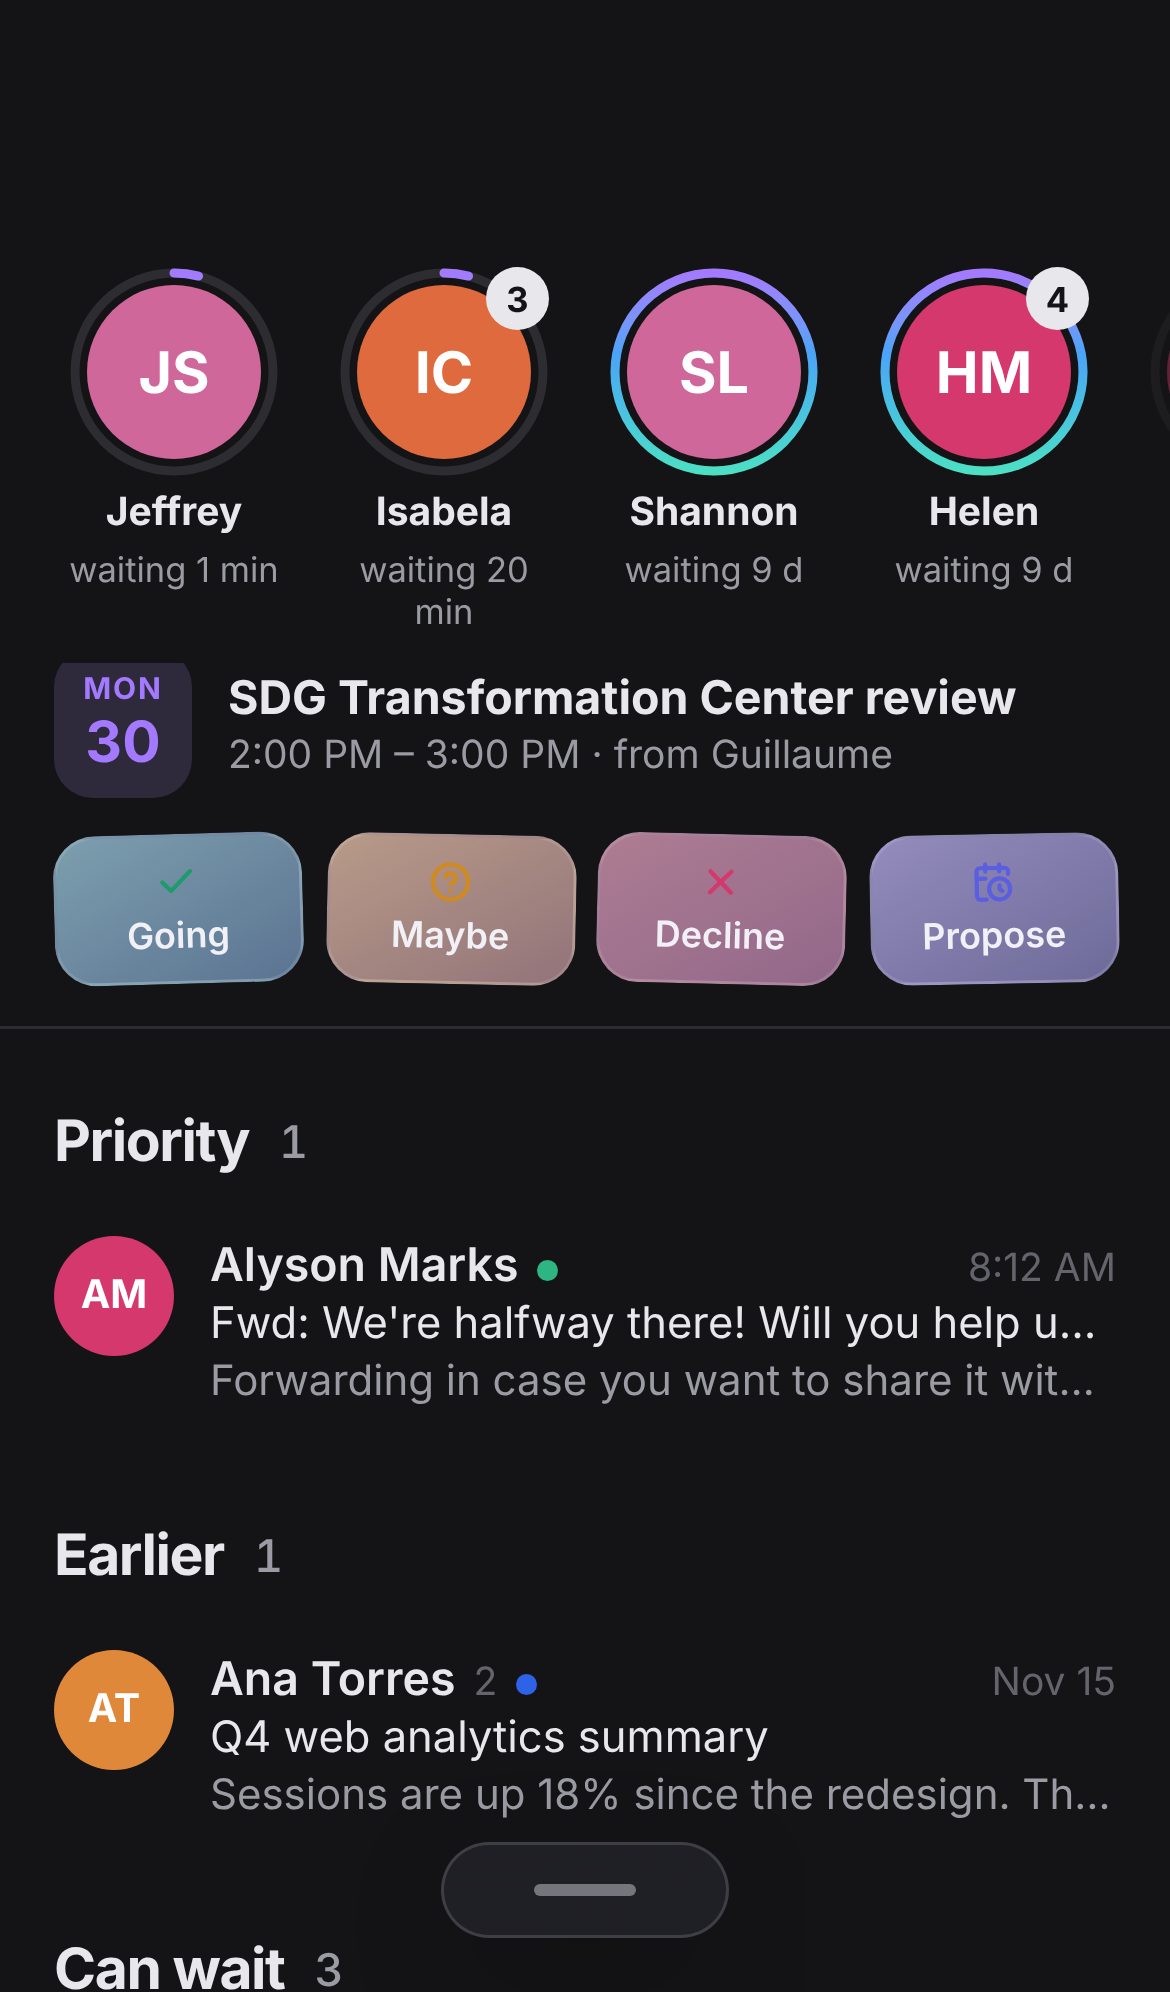
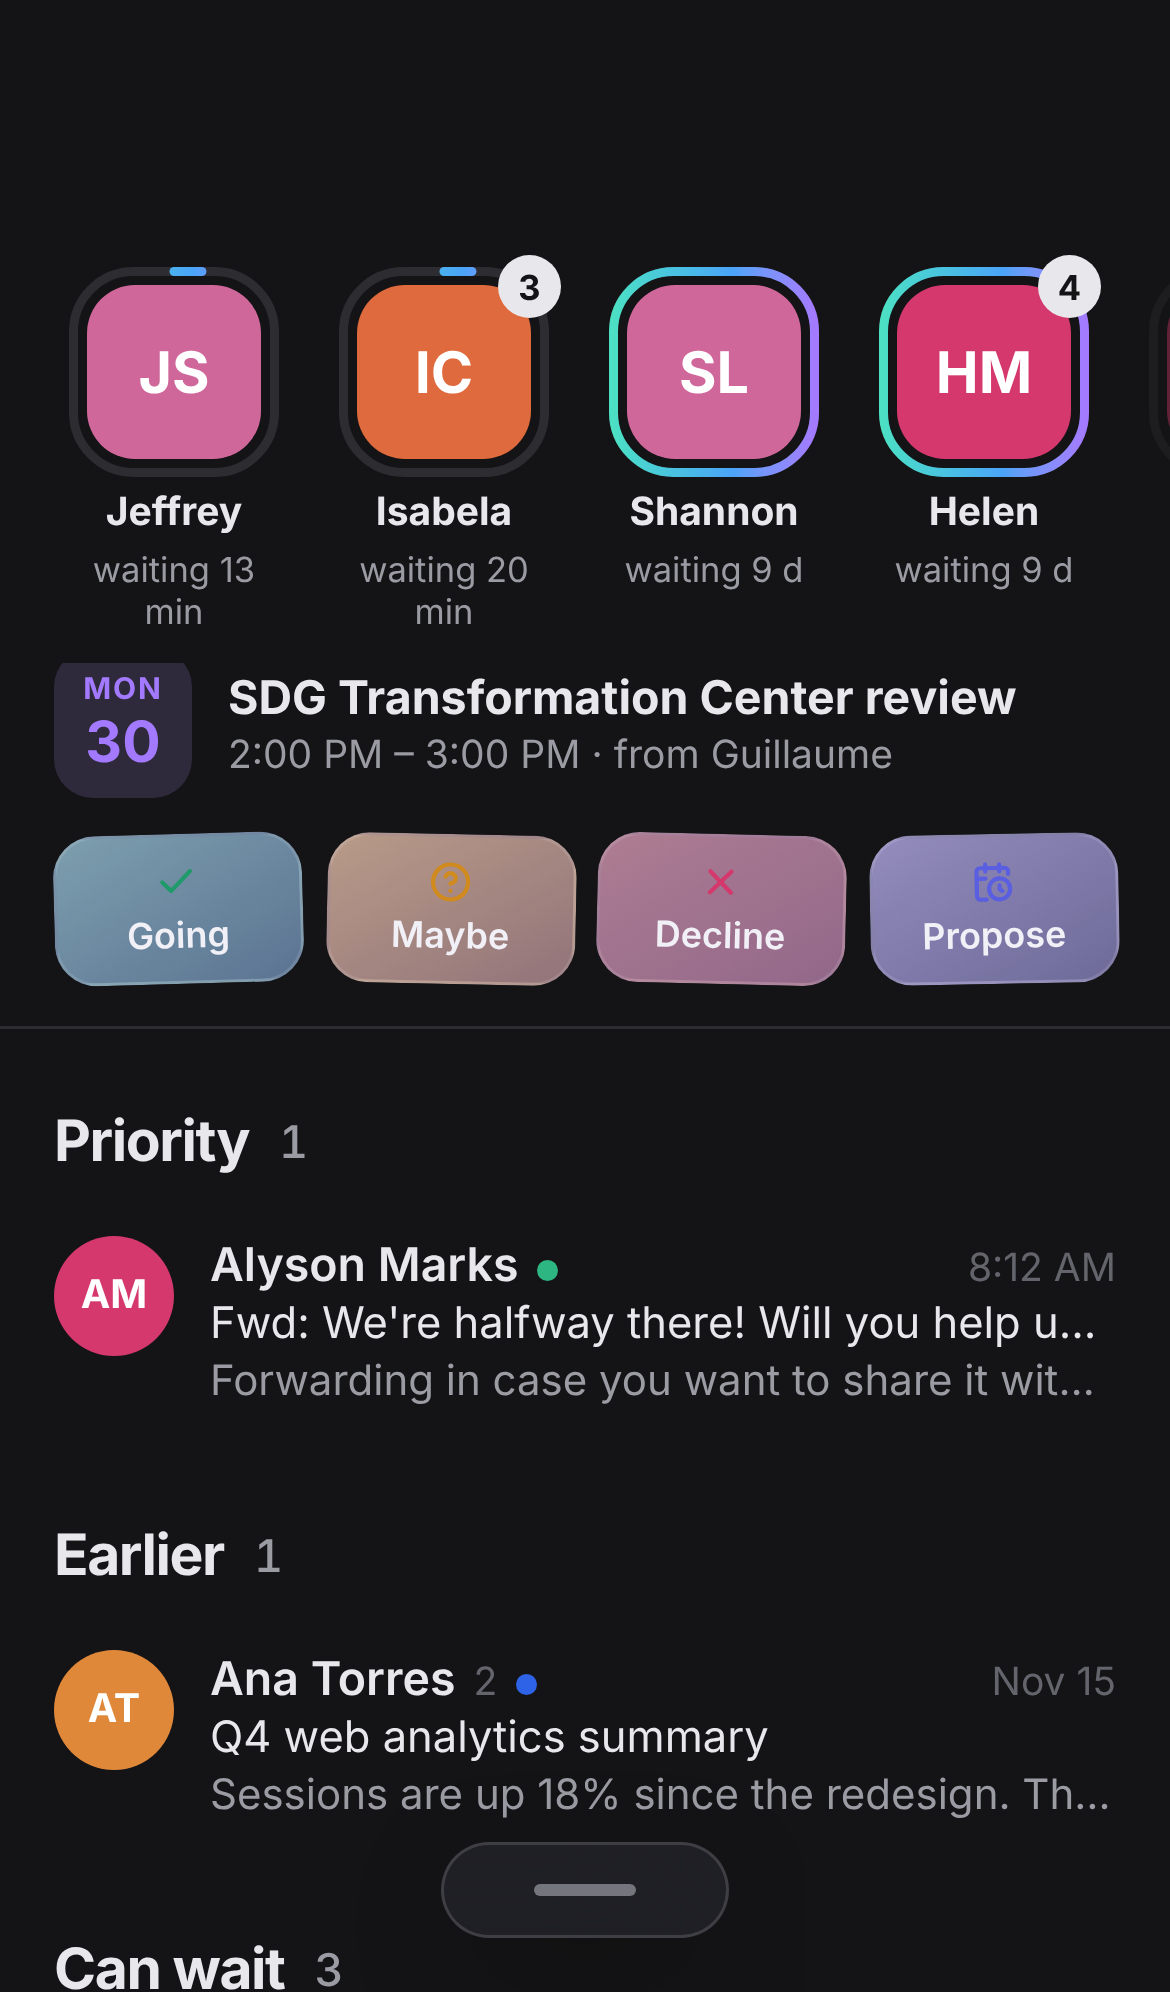
Phone Inbox: rounded-square faces with a square waiting ring
Each priority person is now a rounded square (design D) instead of a
circle; the waiting ring traces the square clockwise from the top centre
and the count badge sits on the corner.

Claude-Session: https://claude.ai/code/session_01XzuKFQP14j9rpsr5sp5kYv

diff --git a/spark-clone/packages/mobile/src/screens/Inbox.tsx b/spark-clone/packages/mobile/src/screens/Inbox.tsx
@@ -14,6 +14,11 @@ import { useStore } from '../lib/store';
 import { useNow } from '../lib/useNow';
 import './inbox.css';
 
+/** Rounded-square ring around each priority face, drawn clockwise from the
+ *  top centre so the waiting arc grows like the old circular one did. */
+const SQUARE_RING =
+  'M35 1.5H48.5A20 20 0 0 1 68.5 21.5V48.5A20 20 0 0 1 48.5 68.5H21.5A20 20 0 0 1 1.5 48.5V21.5A20 20 0 0 1 21.5 1.5Z';
+
 const BUNDLES: {
   key: Category;
   label: string;
@@ -419,7 +424,6 @@ function InboxMain() {
               {people.map((p) => {
                 const h = (now - p.newest) / 3_600_000;
                 const frac = Math.min(1, Math.max(0.04, h / 10));
-                const C = 2 * Math.PI * 33;
                 const count = !p.waiting
                   ? 0
                   : p.items.length > 1
@@ -441,23 +445,15 @@ function InboxMain() {
                             <stop offset="1" stopColor="var(--violet)" />
                           </linearGradient>
                         </defs>
-                        <circle
-                          cx="35"
-                          cy="35"
-                          r="33"
-                          fill="none"
-                          stroke="var(--hair)"
-                          strokeWidth="3"
-                        />
-                        <circle
-                          cx="35"
-                          cy="35"
-                          r="33"
+                        <path d={SQUARE_RING} fill="none" stroke="var(--hair)" strokeWidth="3" />
+                        <path
+                          d={SQUARE_RING}
+                          pathLength={100}
                           fill="none"
                           stroke={p.waiting ? 'url(#ibg)' : 'none'}
                           strokeWidth="3"
                           strokeLinecap="round"
-                          strokeDasharray={`${C * frac} ${C}`}
+                          strokeDasharray={`${100 * frac} 100`}
                         />
                       </svg>
                       <Avatar who={p.who} size={58} />

diff --git a/spark-clone/packages/mobile/src/screens/inbox.css b/spark-clone/packages/mobile/src/screens/inbox.css
@@ -52,8 +52,9 @@
 .ib-face[aria-pressed="true"] > b { color: var(--ink); }
 .ib-face[aria-pressed="true"] > span:not(.ib-ring) { color: var(--muted); }
 .ib-ring { position: relative; width: 70px; height: 70px; display: grid; place-items: center; }
-.ib-ring svg { position: absolute; inset: 0; transform: rotate(-90deg); }
-.ib-ring .c { position: absolute; top: 0; right: 0; min-width: 21px; height: 21px; padding: 0 6px; border-radius: 11px; background: var(--ink); color: var(--app);
+.ib-ring svg { position: absolute; inset: 0; }
+.ib-ring .av { border-radius: 16px; }
+.ib-ring .c { position: absolute; top: -4px; right: -4px; min-width: 21px; height: 21px; padding: 0 6px; border-radius: 11px; background: var(--ink); color: var(--app);
   font-size: 11.5px; font-weight: 700; display: grid; place-items: center; }
 .ib-face b { font-size: 13px; max-width: 76px; white-space: nowrap; overflow: hidden; text-overflow: ellipsis; }
 .ib-face span { font-size: 11.5px; color: var(--muted); }
